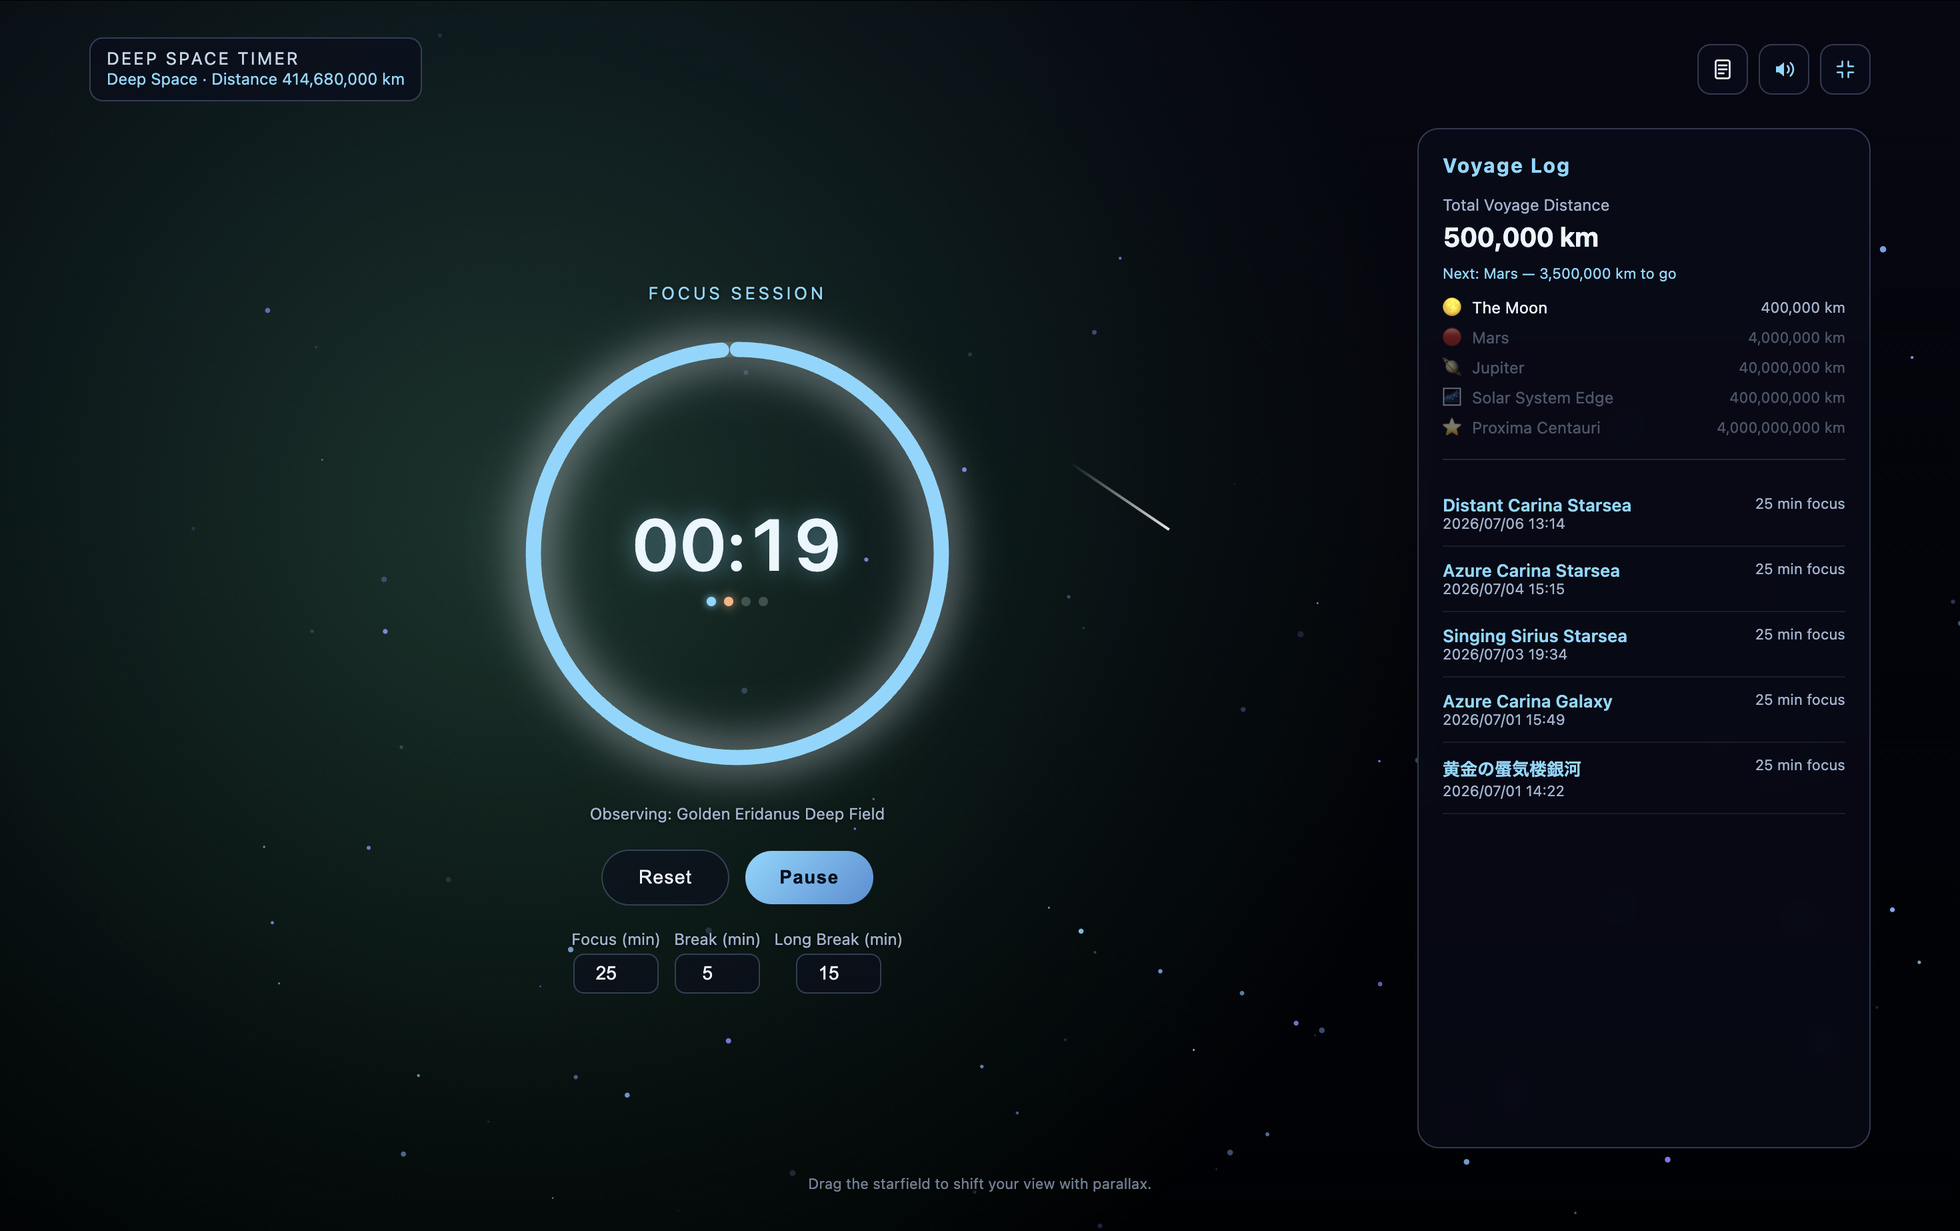
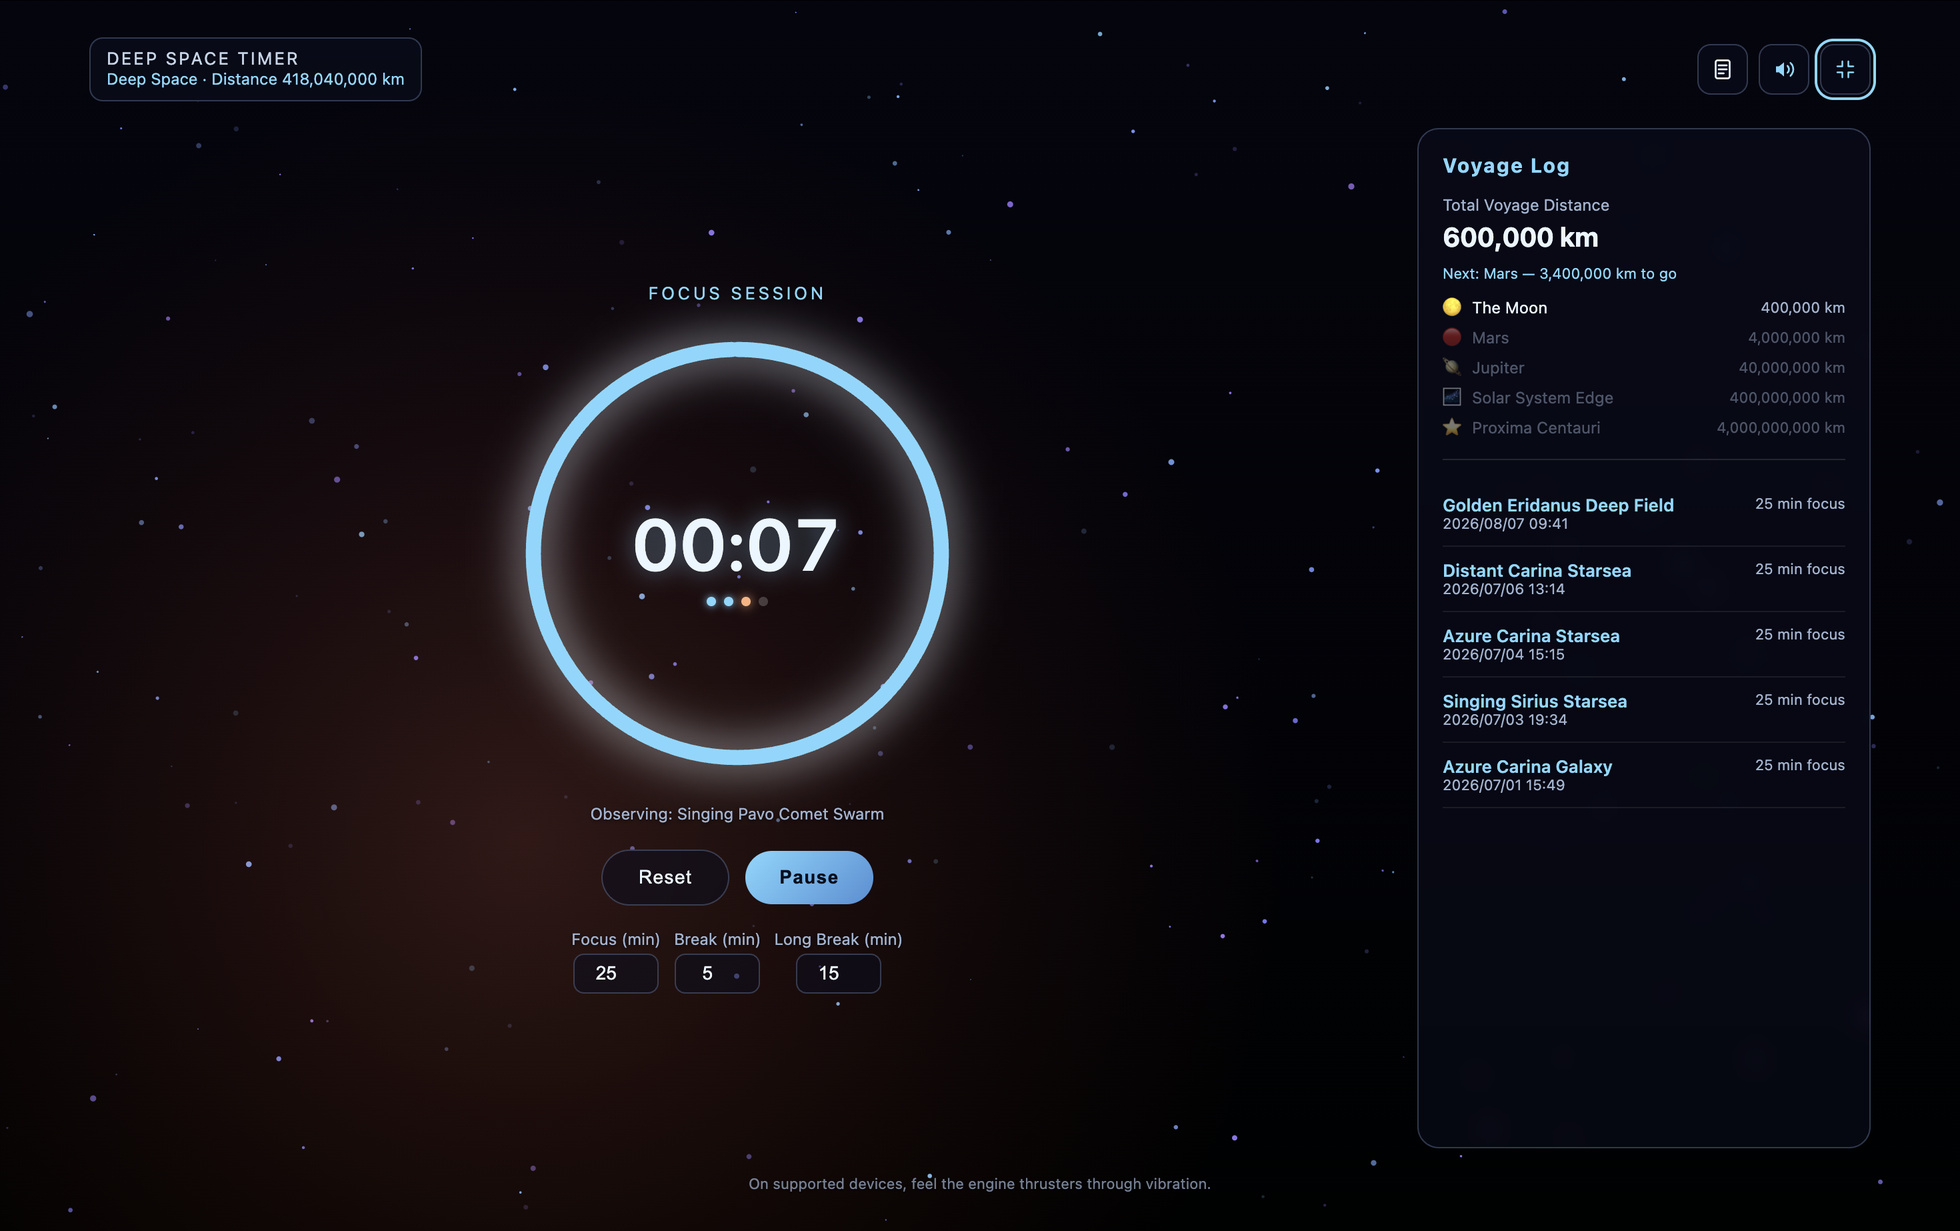
docs: update screenshot with an all-English voyage log
Replaces the previous shot, whose log still held one entry from an older
Japanese-named build that the current generator cannot produce. This one also
catches a nebula in the background.

diff --git a/README.md b/README.md
@@ -6,7 +6,7 @@ A Pomodoro timer that turns every focus session into a voyage into deep space.
 The sky darkens as you concentrate, stars emerge one by one, and each completed
 session is recorded in your voyage log as another few million kilometers traveled.
 
-![Deep Space Pomodoro Timer near the end of a focus session — the progress ring almost closed over a near-black starfield with a comet streaking past, and the Voyage Log panel showing 500,000 km travelled and the Moon milestone reached](docs/screenshot.jpg)
+![Deep Space Pomodoro Timer near the end of a focus session — the progress ring almost closed over a near-black starfield lit by a faint nebula, and the Voyage Log panel showing 600,000 km travelled and the Moon milestone reached](docs/screenshot.jpg)
 
 *Late in a focus session. The sky began as bright daylight blue and has darkened
 into deep space as the timer ran down.*
